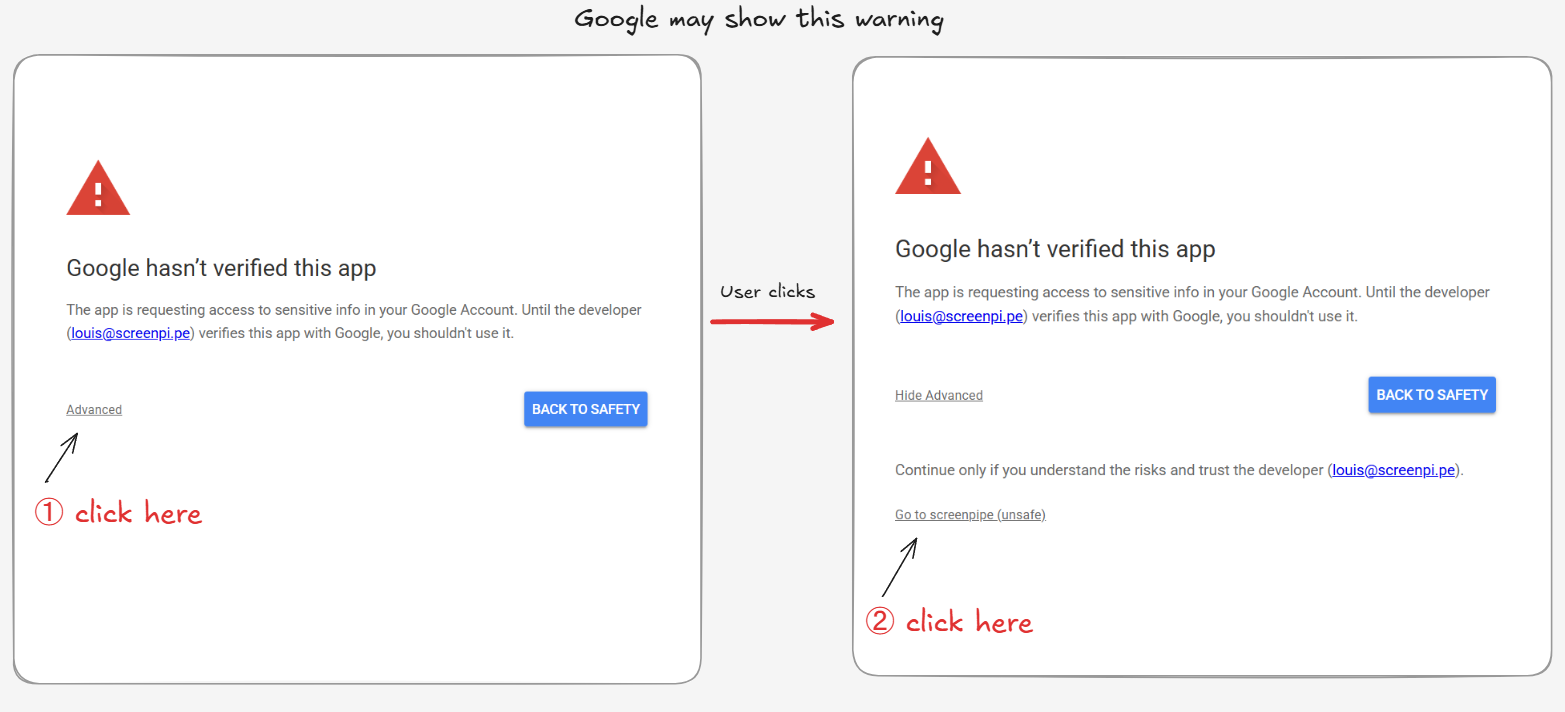
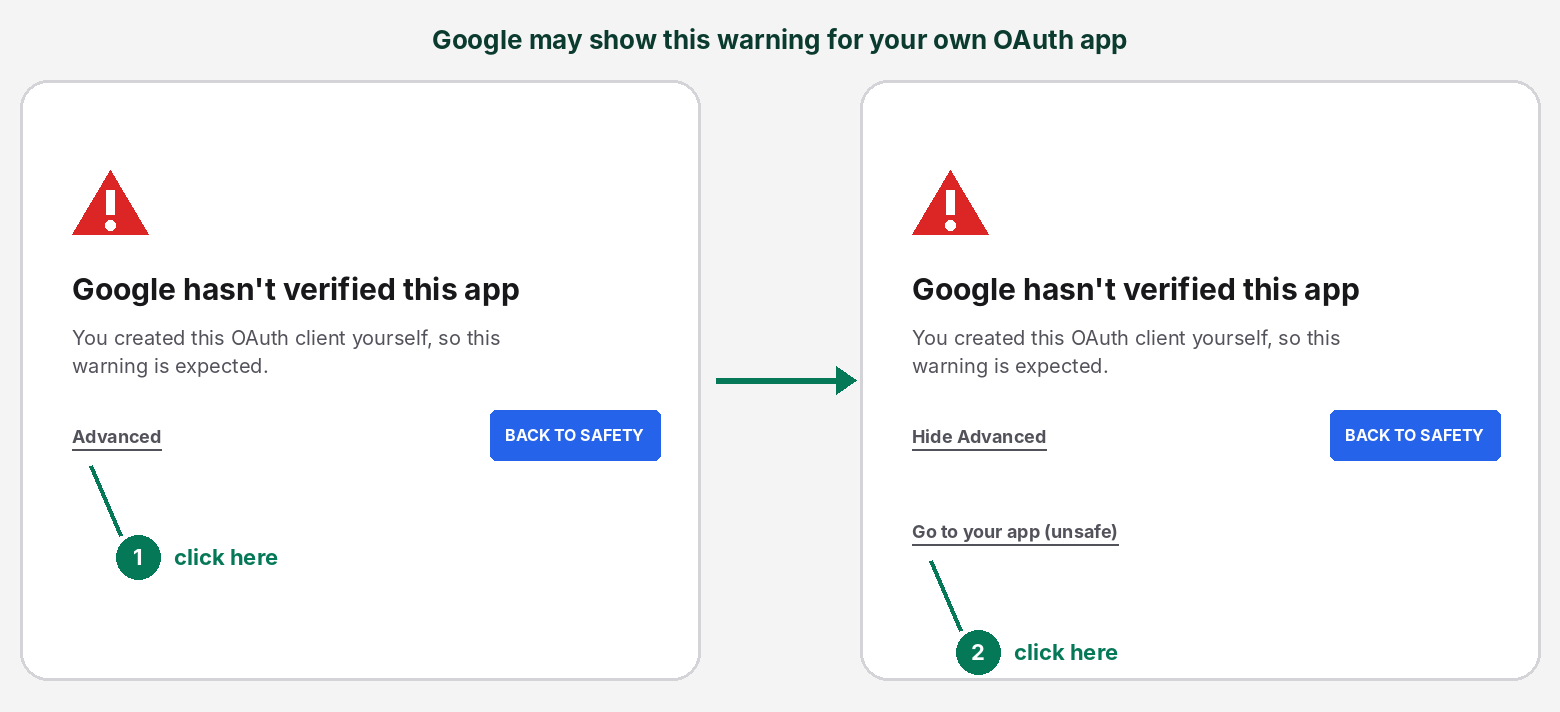
wip(W0-12): artwork generator, OAuth walkthrough image, Freenpipe changelog, macOS dev build name
Claude-Session: https://claude.ai/code/session_01UgBoArq7gNtc2Exw9HwPtJ

Changed region(s): [[0.0, 0.0, 1.0, 0.9579], [0.3077, 0.5253, 0.4308, 0.6489]]

diff --git a/apps/screenpipe-app-tauri/components/settings/google-oauth-unverified-app-hint.tsx b/apps/screenpipe-app-tauri/components/settings/google-oauth-unverified-app-hint.tsx
@@ -24,12 +24,12 @@ export function GoogleOAuthUnverifiedAppHint() {
         <ShieldAlert className="mt-0.5 h-3.5 w-3.5 shrink-0 text-amber-500" />
         <div className="min-w-0 flex-1 space-y-1">
           <span className="block leading-relaxed">
-            Google may show a blocked-app warning. Click{" "}
+            Google may warn that your own OAuth app is unverified. Click{" "}
             <span className="whitespace-nowrap">
               <span className="font-medium text-foreground">Advanced</span>{" "}
               <ArrowRight className="mx-1 inline h-3 w-3 align-[-2px] text-muted-foreground" />
               <span className="font-medium text-foreground">
-                Go to Freenpipe
+                Go to &lt;your app&gt; (unsafe)
               </span>
             </span>
             .
@@ -54,7 +54,7 @@ export function GoogleOAuthUnverifiedAppHint() {
           </DialogHeader>
           <img
             src={WALKTHROUGH_IMAGE}
-            alt="Google OAuth warning walkthrough showing Advanced, then Go to Freenpipe unsafe"
+            alt="Google OAuth warning walkthrough showing Advanced, then Go to your app (unsafe)"
             className="max-h-[calc(100vh-10rem)] w-full rounded-md border border-border object-contain"
           />
         </DialogContent>

diff --git a/apps/screenpipe-app-tauri/src-tauri/icons/source/generate.py b/apps/screenpipe-app-tauri/src-tauri/icons/source/generate.py
@@ -1,0 +1,317 @@
+#!/usr/bin/env python3
+# Freenpipe — local-first screen & audio memory (fork of screenpipe @ 892199f, MIT)
+# https://github.com/normiecore/Freenpipe
+"""Regenerate every Freenpipe icon, installer image and in-app illustration.
+
+The mark is a lowercase "f" with a dot (a recording light) on a rounded
+square. All geometry lives in this file; it writes the SVG sources next to
+itself, rasterises them with the Tauri CLI (`bunx tauri icon`, which renders
+SVG), and composes the NSIS and DMG backgrounds with Pillow.
+
+Run from apps/screenpipe-app-tauri:
+
+    python3 src-tauri/icons/source/generate.py
+
+Needs bun (with the app's node_modules installed) and Pillow. Only files that
+already exist in the repository are overwritten, so the file layout the
+bundle configs and the code refer to stays the same.
+"""
+
+from __future__ import annotations
+
+import shutil
+import subprocess
+import sys
+import tempfile
+from pathlib import Path
+
+from PIL import Image, ImageColor, ImageDraw, ImageFont
+
+SOURCE = Path(__file__).resolve().parent
+ICONS = SOURCE.parent
+TAURI = ICONS.parent
+APP = TAURI.parent
+ASSETS = TAURI / "assets"
+PUBLIC = APP / "public"
+
+GREEN = ("#34D399", "#047857")  # release tile, top-left to bottom-right
+AMBER = ("#FBBF24", "#B45309")  # beta tile
+INK = "#0B3B2E"  # text on light backgrounds
+
+# Glyph strokes in a 1024 x 1024 box: the stem with its hooked top, the
+# crossbar, and the dot to the lower right.
+STEM = "M424 792 V408 A176 176 0 0 1 600 232 H648"
+BAR = "M296 488 H592"
+DOT = (704, 736, 72)
+
+
+def glyph(color: str, stroke: int, badge: str) -> str:
+    """SVG elements for the glyph. `badge` replaces the dot for tray states."""
+    cx, cy, r = DOT
+    parts = [
+        f'<g fill="none" stroke="{color}" stroke-width="{stroke}" '
+        'stroke-linecap="round" stroke-linejoin="round">',
+        f'<path d="{STEM}"/>',
+        f'<path d="{BAR}"/>',
+        "</g>",
+    ]
+    if badge == "dot":
+        parts.append(f'<circle cx="{cx}" cy="{cy}" r="{r}" fill="{color}"/>')
+    elif badge == "ring":  # beta
+        parts.append(
+            f'<circle cx="{cx}" cy="{cy}" r="{r - 6}" fill="none" '
+            f'stroke="{color}" stroke-width="40"/>'
+        )
+    elif badge == "cross":  # capture failed
+        d = r - 8
+        parts.append(
+            f'<path d="M{cx - d} {cy - d} L{cx + d} {cy + d} M{cx + d} {cy - d} '
+            f'L{cx - d} {cy + d}" stroke="{color}" stroke-width="44" '
+            'stroke-linecap="round" fill="none"/>'
+        )
+    elif badge == "arrow":  # update available
+        parts.append(
+            f'<path d="M{cx} {cy + r} V{cy - r + 8} M{cx - 56} {cy - 16} '
+            f'L{cx} {cy - r - 4} L{cx + 56} {cy - 16}" stroke="{color}" '
+            'stroke-width="44" stroke-linecap="round" stroke-linejoin="round" '
+            'fill="none"/>'
+        )
+    else:
+        raise ValueError(badge)
+    return "\n  ".join(parts)
+
+
+def app_icon_svg(tile: tuple[str, str]) -> str:
+    top, bottom = tile
+    return f"""<svg xmlns="http://www.w3.org/2000/svg" viewBox="0 0 1024 1024" width="1024" height="1024">
+  <defs>
+    <linearGradient id="tile" x1="0" y1="0" x2="1" y2="1">
+      <stop offset="0" stop-color="{top}"/>
+      <stop offset="1" stop-color="{bottom}"/>
+    </linearGradient>
+  </defs>
+  <rect x="64" y="64" width="896" height="896" rx="208" fill="url(#tile)"/>
+  {glyph("#FFFFFF", 112, "dot")}
+</svg>
+"""
+
+
+def tray_svg(color: str, badge: str) -> str:
+    # Crop to the glyph so it fills the small tray slot; strokes are heavier
+    # than on the app icon so they survive 16 px rendering.
+    return f"""<svg xmlns="http://www.w3.org/2000/svg" viewBox="144 152 720 720" width="720" height="720">
+  {glyph(color, 128, badge)}
+</svg>
+"""
+
+
+SVGS = {
+    "freenpipe.svg": app_icon_svg(GREEN),
+    "freenpipe-beta.svg": app_icon_svg(AMBER),
+}
+TRAY = {  # name: (color, badge)
+    "tray-white": ("#FFFFFF", "dot"),
+    "tray-black": ("#000000", "dot"),
+    "tray-white-failed": ("#FFFFFF", "cross"),
+    "tray-black-failed": ("#000000", "cross"),
+    "tray-white-updates": ("#FFFFFF", "arrow"),
+    "tray-black-updates": ("#000000", "arrow"),
+    "tray-beta-white": ("#FFFFFF", "ring"),
+    "tray-beta-black": ("#000000", "ring"),
+}
+for name, (color, badge) in TRAY.items():
+    SVGS[f"{name}.svg"] = tray_svg(color, badge)
+
+# Existing raster -> (svg source, pixel size). Tray icons keep upstream file
+# names because the code loads them by path.
+TRAY_FILES = {
+    ASSETS / "screenpipe-logo-tray-white.png": ("tray-white.svg", 128),
+    ASSETS / "screenpipe-logo-tray-black.png": ("tray-black.svg", 128),
+    ASSETS / "screenpipe-logo-tray-white-failed.png": ("tray-white-failed.svg", 128),
+    ASSETS / "screenpipe-logo-tray-black-failed.png": ("tray-black-failed.svg", 128),
+    ASSETS / "screenpipe-logo-tray-updates-white.png": ("tray-white-updates.svg", 128),
+    ASSETS / "screenpipe-logo-tray-updates-black.png": ("tray-black-updates.svg", 128),
+    ASSETS / "screenpipe-logo-tray-beta-white.png": ("tray-beta-white.svg", 128),
+    ASSETS / "screenpipe-logo-tray-beta-black.png": ("tray-beta-black.svg", 128),
+    ICONS / "screenpipe-logo-tray-black.png": ("tray-black.svg", 256),
+    ICONS / "screenpipe-logo-tray-failed.png": ("tray-black-failed.svg", 256),
+    ICONS / "screenpipe-logo-tray-beta.png": ("tray-beta-black.svg", 256),
+}
+PUBLIC_FILES = {
+    PUBLIC / "128x128.png": ("freenpipe.svg", 128),
+    PUBLIC / "32x32.png": ("freenpipe.svg", 32),
+    PUBLIC / "images" / "freenpipe.png": ("freenpipe.svg", 512),
+}
+
+
+def tauri_icon(svg: Path, out: Path, sizes: list[int] | None = None) -> None:
+    cmd = ["bunx", "tauri", "icon", str(svg), "-o", str(out)]
+    for size in sizes or []:
+        cmd += ["-p", str(size)]
+    done = subprocess.run(cmd, cwd=APP, capture_output=True, text=True)
+    if done.returncode != 0:
+        sys.stderr.write(done.stdout + done.stderr)
+        raise SystemExit(f"tauri icon failed for {svg.name}")
+
+
+def render(svg: Path, size: int, work: Path) -> Path:
+    out = work / f"{svg.stem}-{size}"
+    tauri_icon(svg, out, [size])
+    return out / f"{size}x{size}.png"
+
+
+def font(size: int, bold: bool = True) -> ImageFont.FreeTypeFont | ImageFont.ImageFont:
+    names = ["Inter-Bold.otf", "Inter-SemiBold.otf", "DejaVuSans-Bold.ttf"] if bold else [
+        "Inter-Regular.otf",
+        "DejaVuSans.ttf",
+    ]
+    for root in [Path("/usr/share/fonts"), Path("C:/Windows/Fonts")]:
+        for name in names:
+            hits = list(root.rglob(name)) if root.exists() else []
+            if hits:
+                return ImageFont.truetype(str(hits[0]), size)
+    return ImageFont.load_default()
+
+
+def vertical_gradient(size: tuple[int, int], top: str, bottom: str) -> Image.Image:
+    w, h = size
+    (r0, g0, b0), (r1, g1, b1) = ImageColor.getrgb(top), ImageColor.getrgb(bottom)
+    img = Image.new("RGB", (w, h))
+    draw = ImageDraw.Draw(img)
+    for y in range(h):
+        t = y / max(h - 1, 1)
+        draw.line(
+            [(0, y), (w, y)],
+            fill=(round(r0 + (r1 - r0) * t), round(g0 + (g1 - g0) * t), round(b0 + (b1 - b0) * t)),
+        )
+    return img
+
+
+def nsis_images(work: Path) -> None:
+    mark = Image.open(render(SOURCE / "freenpipe.svg", 256, work)).convert("RGBA")
+
+    # Header (shown at 2x: 332 x 126): white strip, mark and name at the right.
+    header = Image.new("RGB", (332, 126), "#FFFFFF")
+    m = mark.resize((84, 84), Image.LANCZOS)
+    header.paste(m, (332 - 84 - 20, 21), m)
+    draw = ImageDraw.Draw(header)
+    f = font(34)
+    text = "Freenpipe"
+    tw = draw.textlength(text, font=f)
+    draw.text((332 - 84 - 32 - tw, 42), text, font=f, fill=INK)
+    header.save(ASSETS / "nsis-header.bmp")
+
+    # Sidebar (164 x 314): green gradient, white glyph, name underneath.
+    side = vertical_gradient((164, 314), GREEN[0], GREEN[1])
+    glyph_png = Image.open(render(SOURCE / "tray-white.svg", 256, work)).convert("RGBA")
+    g = glyph_png.resize((96, 96), Image.LANCZOS)
+    side.paste(g, ((164 - 96) // 2, 92), g)
+    draw = ImageDraw.Draw(side)
+    f = font(24)
+    tw = draw.textlength(text, font=f)
+    draw.text(((164 - tw) / 2, 206), text, font=f, fill="#FFFFFF")
+    side.save(ASSETS / "nsis-sidebar.bmp")
+
+
+def dmg_background() -> None:
+    w, h = 801, 455
+    img = Image.new("RGBA", (w, h), "#F7FBF9")
+    draw = ImageDraw.Draw(img)
+    # Arrow between the app (left) and Applications (right) drop targets.
+    y = 160
+    draw.line([(300, y), (366, y)], fill=GREEN[1], width=10)
+    draw.polygon([(366, y - 22), (398, y), (366, y + 22)], fill=GREEN[1])
+    f = font(18, bold=False)
+    text = "drag Freenpipe to Applications"
+    tw = draw.textlength(text, font=f)
+    draw.text((349 - tw / 2, y + 40), text, font=f, fill=INK)
+    img.save(ASSETS / "dmg-background.png")
+
+
+def oauth_walkthrough() -> None:
+    """Two-step sketch of Google's unverified-app warning for BYO OAuth clients."""
+    w, h = 1560, 712
+    img = Image.new("RGB", (w, h), "#F4F4F5")
+    draw = ImageDraw.Draw(img)
+    title_font, body_font, small_font = font(30), font(20, bold=False), font(18)
+    draw.text((w / 2, 28), "Google may show this warning for your own OAuth app", font=font(26),
+              fill=INK, anchor="mt")
+
+    def card(x: int, expanded: bool, step: str) -> None:
+        y = 80
+        draw.rounded_rectangle([x, y, x + 680, y + 600], radius=28, fill="#FFFFFF",
+                               outline="#D4D4D8", width=3)
+        # Warning sign.
+        cx, ty = x + 90, y + 90
+        draw.polygon([(cx, ty), (cx - 38, ty + 64), (cx + 38, ty + 64)], fill="#DC2626")
+        draw.rectangle([cx - 4, ty + 20, cx + 4, ty + 44], fill="#FFFFFF")
+        draw.ellipse([cx - 5, ty + 50, cx + 5, ty + 60], fill="#FFFFFF")
+        draw.text((x + 52, y + 190), "Google hasn't verified this app", font=title_font, fill="#18181B")
+        draw.text((x + 52, y + 245), "You created this OAuth client yourself, so this", font=body_font,
+                  fill="#52525B")
+        draw.text((x + 52, y + 273), "warning is expected.", font=body_font, fill="#52525B")
+        link = "Hide Advanced" if expanded else "Advanced"
+        draw.text((x + 52, y + 345), link, font=small_font, fill="#52525B")
+        lw = draw.textlength(link, font=small_font)
+        draw.line([(x + 52, y + 369), (x + 52 + lw, y + 369)], fill="#52525B", width=2)
+        draw.rounded_rectangle([x + 470, y + 330, x + 640, y + 380], radius=6, fill="#2563EB")
+        draw.text((x + 555, y + 355), "BACK TO SAFETY", font=font(16), fill="#FFFFFF", anchor="mm")
+        if expanded:
+            go = "Go to your app (unsafe)"
+            draw.text((x + 52, y + 440), go, font=small_font, fill="#52525B")
+            gw = draw.textlength(go, font=small_font)
+            draw.line([(x + 52, y + 464), (x + 52 + gw, y + 464)], fill="#52525B", width=2)
+            target = (x + 70, y + 480)
+        else:
+            target = (x + 70, y + 385)
+        # Step marker pointing at the link to click.
+        mx, my = target[0] + 30, target[1] + 70
+        draw.line([target, (mx, my)], fill=GREEN[1], width=4)
+        draw.ellipse([mx - 4, my, mx + 40, my + 44], fill=GREEN[1])
+        draw.text((mx + 18, my + 22), step, font=font(22), fill="#FFFFFF", anchor="mm")
+        draw.text((mx + 54, my + 22), "click here", font=font(22), fill=GREEN[1], anchor="lm")
+
+    card(20, False, "1")
+    card(860, True, "2")
+    # Arrow between the two states.
+    draw.line([(716, 380), (836, 380)], fill=GREEN[1], width=6)
+    draw.polygon([(836, 366), (856, 380), (836, 394)], fill=GREEN[1])
+    img.save(PUBLIC / "images" / "google-oauth-unverified-app-walkthrough.png", optimize=True)
+
+
+def replace_existing(generated: Path, target: Path) -> None:
+    for src in generated.rglob("*"):
+        if not src.is_file():
+            continue
+        dst = target / src.relative_to(generated)
+        if dst.exists():
+            shutil.copyfile(src, dst)
+
+
+def main() -> int:
+    for name, text in SVGS.items():
+        (SOURCE / name).write_text(text, encoding="utf-8", newline="\n")
+
+    with tempfile.TemporaryDirectory() as tmp:
+        work = Path(tmp)
+
+        # Bundle icon sets (ico, icns, store tiles, mobile) plus the extra
+        # square sizes the bundle configs list.
+        for svg, target in [("freenpipe.svg", ICONS), ("freenpipe-beta.svg", ICONS / "beta")]:
+            full = work / f"set-{target.name}"
+            tauri_icon(SOURCE / svg, full)
+            tauri_icon(SOURCE / svg, full, [256, 512, 1024])
+            replace_existing(full, target)
+
+        for target, (svg, size) in {**TRAY_FILES, **PUBLIC_FILES}.items():
+            target.parent.mkdir(parents=True, exist_ok=True)
+            shutil.copyfile(render(SOURCE / svg, size, work), target)
+
+        nsis_images(work)
+    dmg_background()
+    oauth_walkthrough()
+    return 0
+
+
+if __name__ == "__main__":
+    sys.exit(main())

diff --git a/apps/screenpipe-app-tauri/public/CHANGELOG.md b/apps/screenpipe-app-tauri/public/CHANGELOG.md
@@ -1,13 +1,9 @@
-## New Features
+## Freenpipe
 
-- **macOS 14.4+:** Exclude apps from system-audio capture via `~/.screenpipe/audio-exclusions.json` (hot-reloadable JSON file; resolves bundle IDs via NSRunningApp + macOS 14.4+ `NSAudioCaptureUsageDescription` TCC prompt)
-- **macOS 14.4+:** Settings panel for managing audio process exclusions — Settings → Recording → "Exclude apps from system audio" with Finder `.app` picker, chip list with app icons, Apply & Restart integration
-- Bring your own MCP servers — register custom MCP servers from your config and route them through the AI agent alongside the built-in ones
-- Microphone capture can now use macOS VoiceProcessingIO (opt-in) for cleaner echo/noise cancellation on Apple silicon
+Freenpipe has no tagged release yet. This build is a development snapshot of the open-source fork of screenpipe at commit `892199f`, the last MIT-licensed upstream commit.
 
-## Bug Fixes
+- Recordings, settings, pipes and skills stay compatible with screenpipe's data folder (`~/.screenpipe`).
+- No telemetry, no hosted account and no vendor services. Cloud features use your own keys or self-hosted servers.
+- Release notes for tagged builds appear here once releases are published on GitHub.
 
-- Electron apps (VS Code, Discord, Slack) now get the full accessibility walk budget — depth counter resets at AXWebArea boundaries instead of cutting off the tree halfway through
-- USB audio devices with mismatched sample rates no longer drop into silence on macOS
-
-#### **Full Changelog:** [bdf01bdb..2b06b643](https://github.com/screenpipe/screenpipe/compare/bdf01bdb..2b06b643)
+#### **Project:** [github.com/normiecore/Freenpipe](https://github.com/normiecore/Freenpipe)
